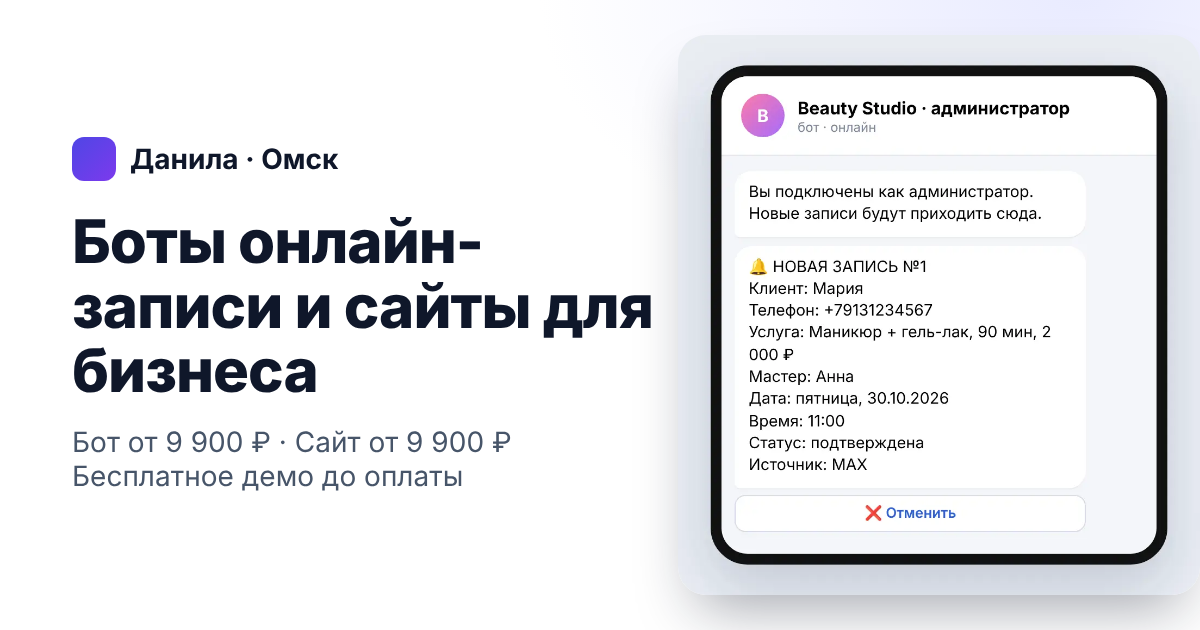
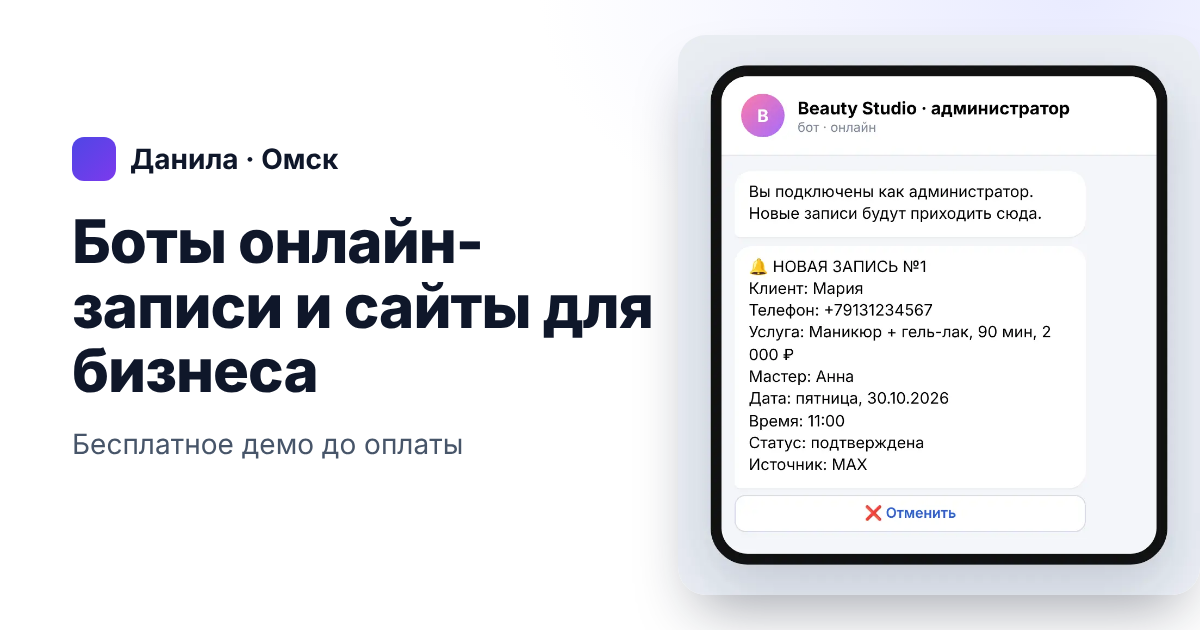
Временно убрать цены с сайта (#1)
Цены в карточках услуг закомментированы (<!-- PRICE ... -->), убраны из
meta/OG-описаний, schema.org и картинки og.png.

Claude-Session: https://claude.ai/code/session_014ZGmNnLjMGyuSsYcieM5Ry

Changed region(s): [[0.0617, 0.6635, 0.4317, 0.7841]]

diff --git a/index.html b/index.html
@@ -4,7 +4,7 @@
 <meta charset="utf-8">
 <meta name="viewport" content="width=device-width, initial-scale=1">
 <title>Бот онлайн-записи в MAX и Telegram и сайт под ключ в Омске — Данила</title>
-<meta name="description" content="Разработчик в Омске: бот онлайн-записи для салонов и студий в MAX и Telegram от 9 900 ₽, сайт-визитка или лендинг от 9 900 ₽, бот + сайт 14 900 ₽. Бесплатное демо до оплаты, запуск за 3–5 дней.">
+<meta name="description" content="Разработчик в Омске: бот онлайн-записи для салонов и студий в MAX и Telegram, сайт-визитка или лендинг, бот + сайт. Бесплатное демо до оплаты, запуск за 3–5 дней.">
 <meta name="keywords" content="бот онлайн записи, бот записи MAX, телеграм бот для салона, создание сайта Омск, лендинг под ключ, разработчик ботов Омск">
 <meta name="author" content="Данила">
 <meta name="robots" content="index, follow">
@@ -15,7 +15,7 @@
 <meta property="og:site_name" content="Данила — боты и сайты">
 <meta property="og:url" content="https://portfolio-wor-mythol.vercel.app/">
 <meta property="og:title" content="Боты онлайн-записи и сайты для бизнеса — Омск">
-<meta property="og:description" content="Бот записи от 9 900 ₽, сайт от 9 900 ₽, бот + сайт 14 900 ₽. Бесплатное демо до оплаты, запуск за 3–5 дней.">
+<meta property="og:description" content="Бот записи в MAX и Telegram, сайт-визитка или лендинг, бот + сайт. Бесплатное демо до оплаты, запуск за 3–5 дней.">
 <meta property="og:image" content="https://portfolio-wor-mythol.vercel.app/og.png">
 <meta property="og:image:width" content="1200">
 <meta property="og:image:height" content="630">
@@ -38,13 +38,12 @@
   "email": "bulgakovdanila222@gmail.com",
   "address": {"@type": "PostalAddress", "addressLocality": "Омск", "addressCountry": "RU"},
   "areaServed": ["Омск", "Россия"],
-  "priceRange": "1500–15000 ₽",
   "founder": {"@type": "Person", "name": "Данила", "jobTitle": "Разработчик ботов и сайтов", "sameAs": ["https://t.me/ydik4", "https://github.com/WorMythol"]},
   "hasOfferCatalog": {"@type": "OfferCatalog", "name": "Услуги", "itemListElement": [
-    {"@type": "Offer", "price": "9900", "priceCurrency": "RUB", "itemOffered": {"@type": "Service", "name": "Бот онлайн-записи в MAX или Telegram"}},
-    {"@type": "Offer", "price": "9900", "priceCurrency": "RUB", "itemOffered": {"@type": "Service", "name": "Сайт-визитка или лендинг"}},
-    {"@type": "Offer", "price": "14900", "priceCurrency": "RUB", "itemOffered": {"@type": "Service", "name": "Бот записи + сайт"}},
-    {"@type": "Offer", "price": "1500", "priceCurrency": "RUB", "itemOffered": {"@type": "Service", "name": "Поддержка и хостинг, в месяц"}}
+    {"@type": "Offer", "itemOffered": {"@type": "Service", "name": "Бот онлайн-записи в MAX или Telegram"}},
+    {"@type": "Offer", "itemOffered": {"@type": "Service", "name": "Сайт-визитка или лендинг"}},
+    {"@type": "Offer", "itemOffered": {"@type": "Service", "name": "Бот записи + сайт"}},
+    {"@type": "Offer", "itemOffered": {"@type": "Service", "name": "Поддержка и хостинг, в месяц"}}
   ]}
 }
 </script>
@@ -90,12 +89,12 @@
 
 <section id="services" class="section">
   <div class="wrap">
-    <h2>Услуги и цены</h2>
-    <p class="sub">Фиксированная цена до начала работы. Правки в рамках задачи бесплатно.</p>
+    <h2>Услуги</h2>
+    <p class="sub">Стоимость обсуждаем под вашу задачу и фиксируем до начала работы. Правки в рамках задачи бесплатно.</p>
     <div class="cards">
       <article class="card">
         <h3>Бот записи</h3>
-        <p class="price">9 900 ₽</p>
+        <!-- PRICE <p class="price">9 900 ₽</p> -->
         <ul>
           <li>MAX или Telegram</li>
           <li>Услуги, мастера, свободное время</li>
@@ -104,9 +103,9 @@
         </ul>
       </article>
       <article class="card card--accent">
-        <span class="badge">Выгоднее</span>
+        <!-- PRICE <span class="badge">Выгоднее</span> -->
         <h3>Бот + сайт</h3>
-        <p class="price">14 900 ₽ <s>19 800</s></p>
+        <!-- PRICE <p class="price">14 900 ₽ <s>19 800</s></p> -->
         <ul>
           <li>Всё из «Бота записи»</li>
           <li>Сайт-визитка с кнопкой записи</li>
@@ -116,7 +115,7 @@
       </article>
       <article class="card">
         <h3>Сайт / лендинг</h3>
-        <p class="price">9 900 ₽</p>
+        <!-- PRICE <p class="price">9 900 ₽</p> -->
         <ul>
           <li>До 6 блоков, ваш стиль</li>
           <li>Форма заявки и мессенджеры</li>
@@ -126,9 +125,9 @@
       </article>
     </div>
     <div class="extra">
-      <div><b>Поддержка</b> от 1 500 ₽ в месяц: хостинг, мелкие правки, обновление цен и услуг.</div>
-      <div><b>Бот или сервис по ТЗ</b> от 15 000 ₽: интеграции с API, админки, Mini App.</div>
-      <div><b>Плагины Minecraft (Paper)</b> от 3 000 ₽, доработки от 1 500 ₽.</div>
+      <div><b>Поддержка</b> по месяцам: хостинг, мелкие правки, обновление цен и услуг.</div>
+      <div><b>Бот или сервис по ТЗ</b>: интеграции с API, админки, Mini App.</div>
+      <div><b>Плагины Minecraft (Paper)</b>: новые плагины и доработки готовых.</div>
     </div>
   </div>
 </section>

diff --git a/style.css b/style.css
@@ -48,7 +48,7 @@ h3{font-size:20px;line-height:1.3}
 .badge{position:absolute;top:-12px;left:28px;background:var(--acc);color:#fff;font-size:13px;font-weight:600;padding:3px 12px;border-radius:999px}
 .price{font-size:30px;font-weight:800;margin:6px 0 16px}
 .price s{font-size:16px;color:var(--muted);font-weight:500;margin-left:6px}
-.card ul{padding-left:20px;color:var(--muted)}
+.card ul{padding-left:20px;color:var(--muted);margin-top:12px}
 .card li{margin:4px 0}
 .extra{display:grid;grid-template-columns:repeat(3,1fr);gap:20px;margin-top:20px;color:var(--muted);font-size:15px}
 .extra b{color:var(--ink)}
